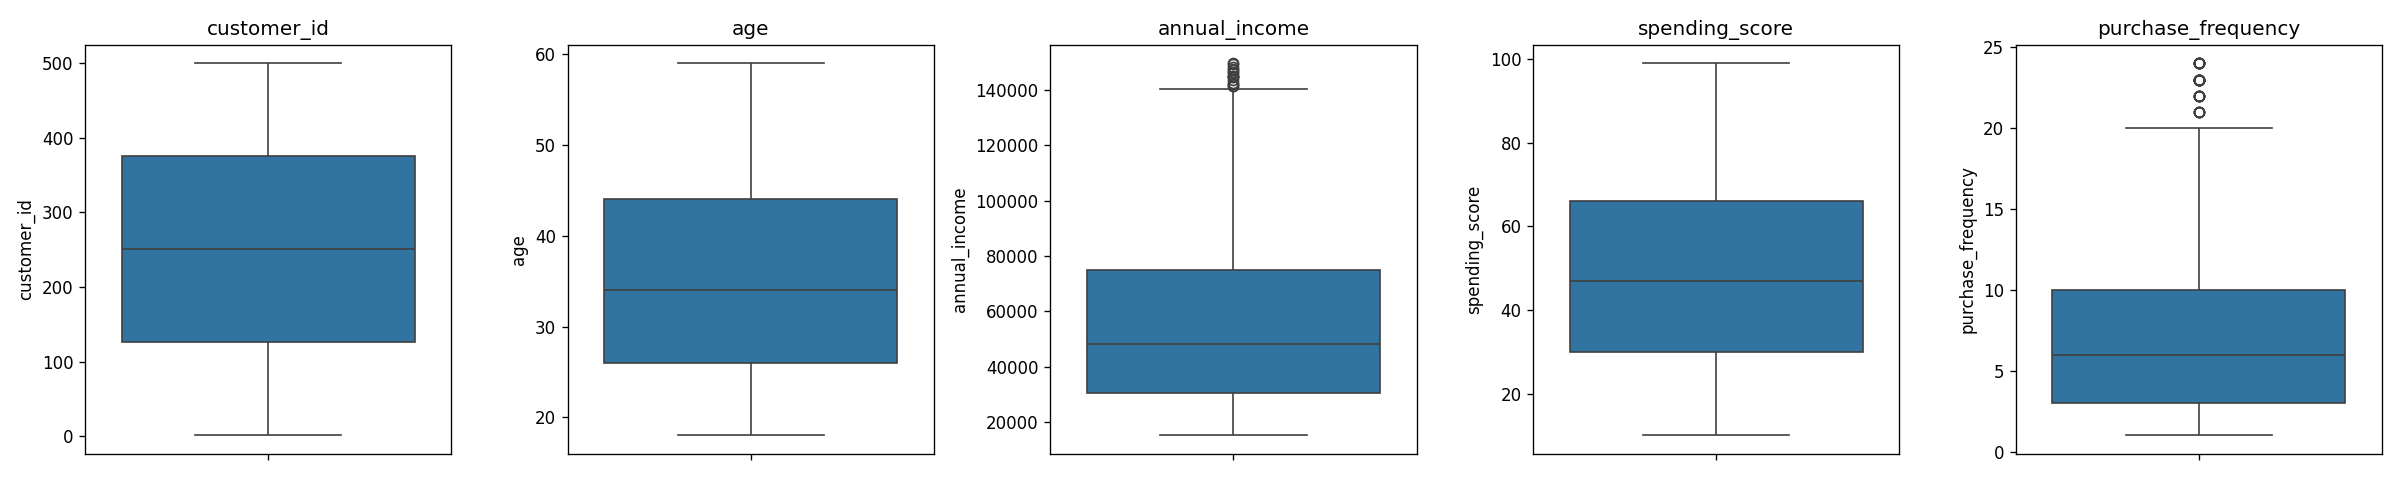
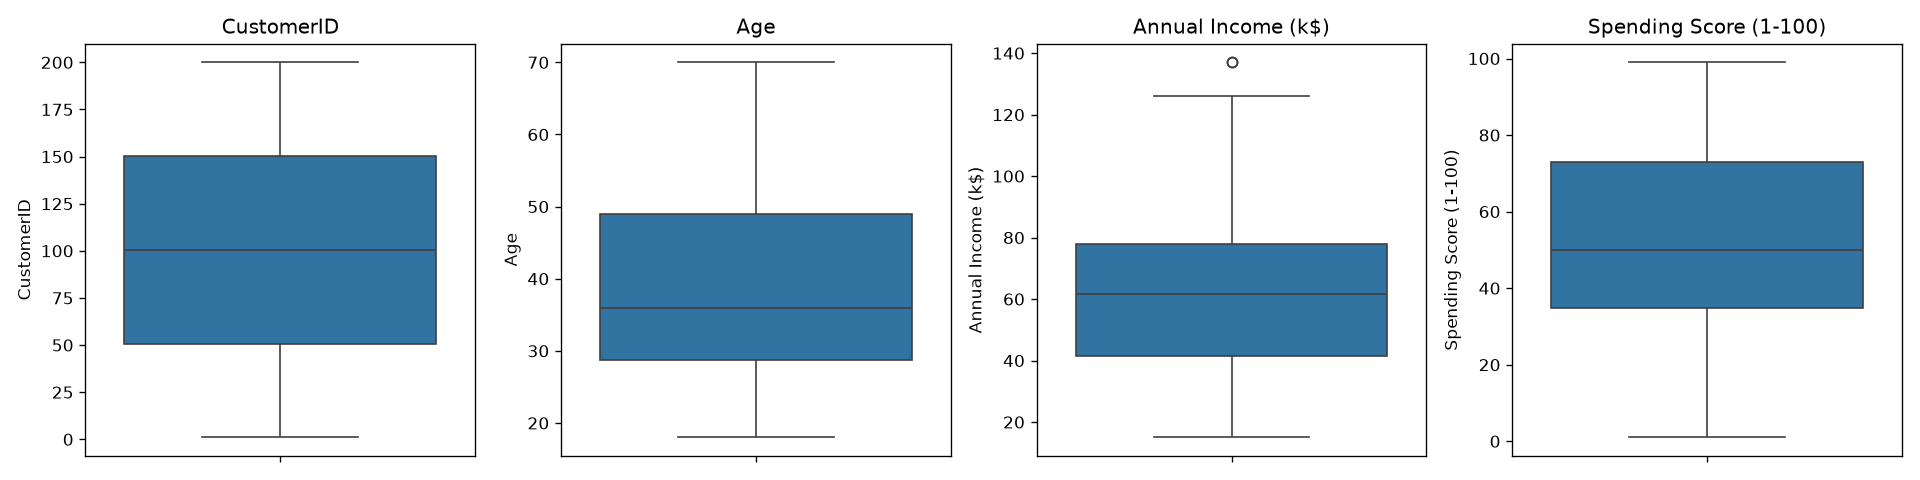
Ran EDA on real Mall Customers dataset

diff --git a/notebooks/eda.py b/notebooks/eda.py
@@ -15,7 +15,7 @@ import seaborn as sns
 
 # Point this at the real dataset once it's downloaded, e.g.:
 # df = pd.read_csv("data/raw/Mall_Customers.csv")
-df = pd.read_csv("data/raw/customers_sample.csv")
+df = pd.read_csv("data/raw/Mall_Customers.csv")
 
 print("Shape (rows, columns):", df.shape)
 print("\nColumn info:")
